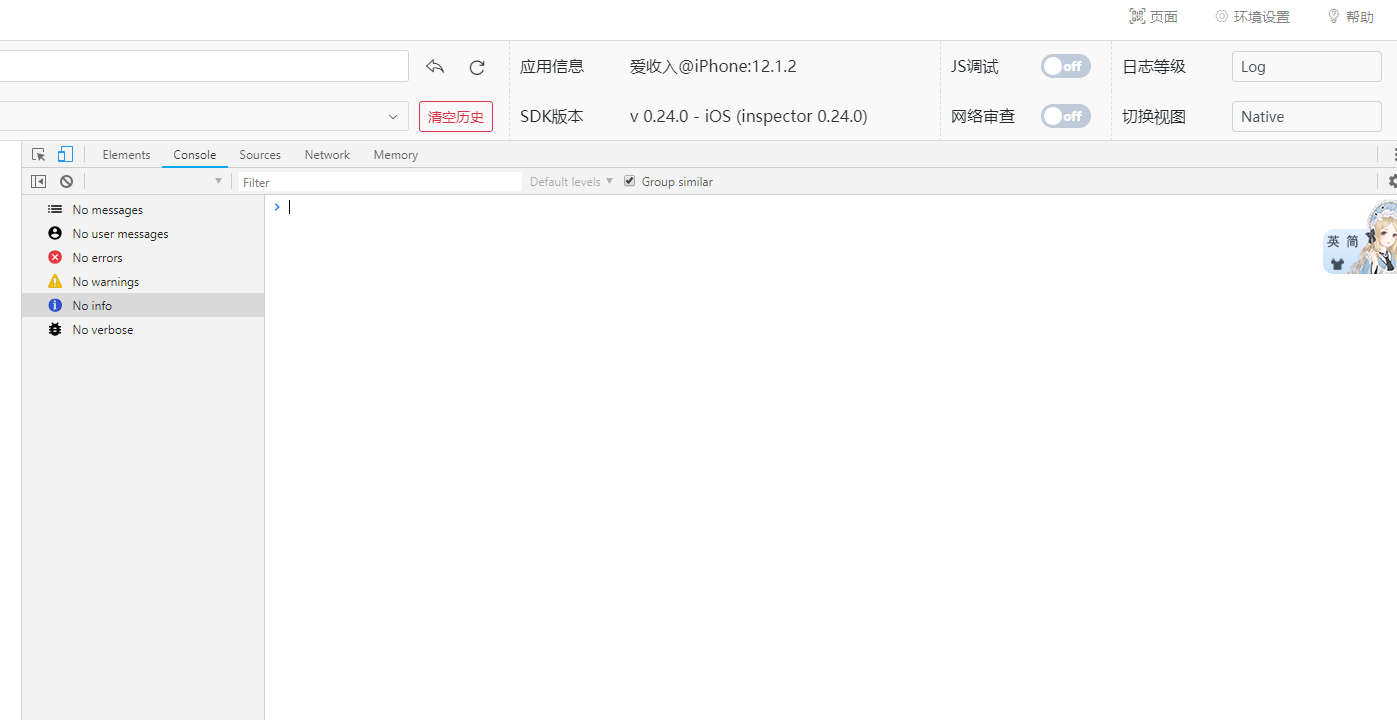
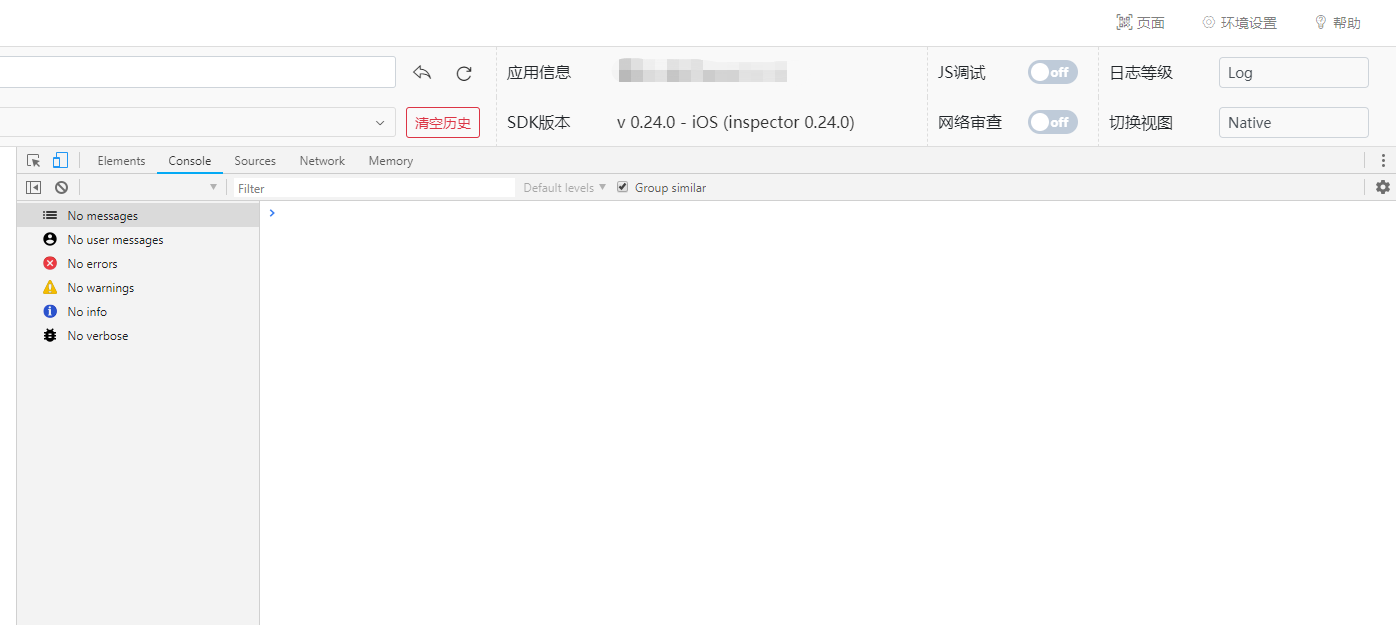
debug 界面不同平台

diff --git a/docs/guide/guideline.md b/docs/guide/guideline.md
@@ -85,9 +85,13 @@ npm run watchDevelop
 
 <img src="../.vuepress/public/image/weexbox2.0/step2.png"/>
 
-扫码以后，界面为：
+iOS扫描后界面为：
 
 <img src="../.vuepress/public/image/weexbox2.0/step3.png"/>
+
+Android扫描后界面为：(因渲染方式不同，Android会自动打开js调试模式，iOS不需要；在日志等级中，Android默认设置为debug，需要手动调整为log模式，即可查看输入日志了。)
+
+<img src="../.vuepress/public/image/weexbox2.0/step4.png"/>
 
 手机端进入weex页面，随意更改页面内容，就可以看到页面中的输出了。
 
